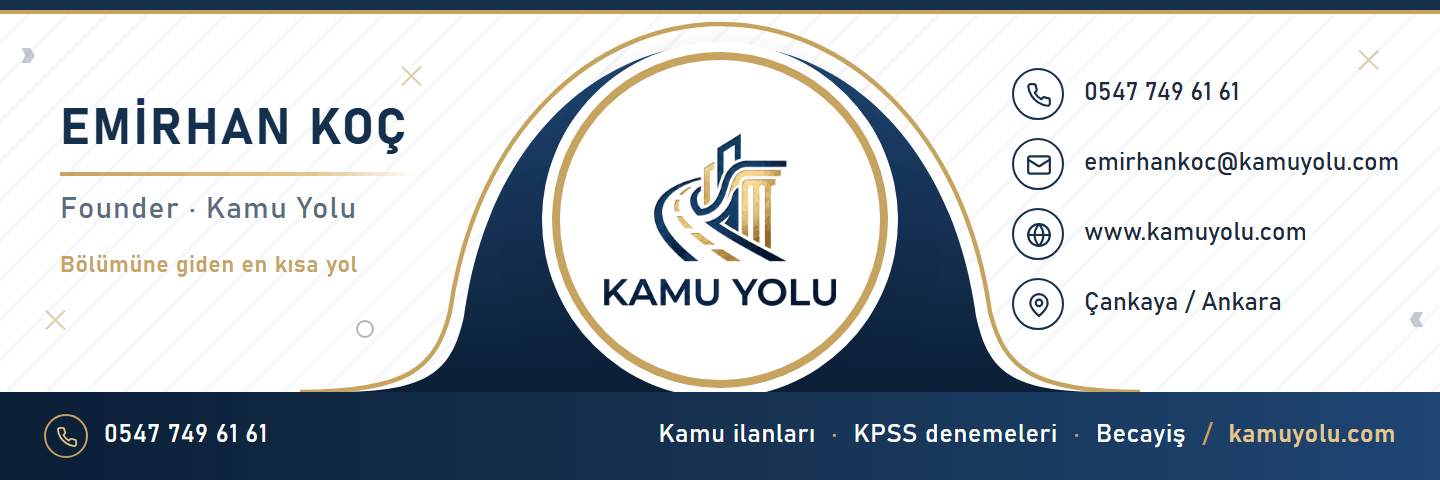
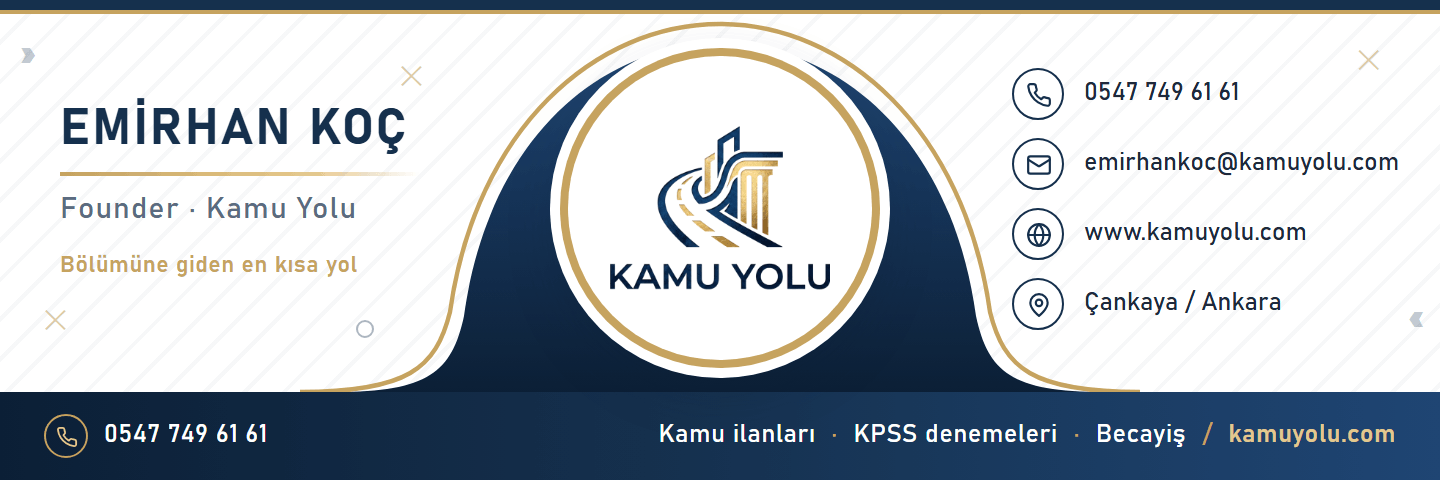
E-posta imzası: ortadaki daire alt banda taşmıyor
Daire 152 px ve öne alındı; Gmail önbelleği için görsel adresi ?v=2.

Changed region(s): [[0.375, 0.25, 0.625, 0.8438], [0.4062, 0.0938, 0.5938, 0.2188]]

diff --git a/docs/eposta-imzasi.html b/docs/eposta-imzasi.html
@@ -18,7 +18,7 @@
 <table cellpadding="0" cellspacing="0" border="0" style="border-collapse:collapse;font-family:Arial,Helvetica,sans-serif">
   <tr>
     <td style="padding:0">
-      <a href="https://www.kamuyolu.com" style="text-decoration:none"><img src="https://www.kamuyolu.com/brand/eposta-imza-1.png" width="600" height="200" alt="Emirhan Koç · Founder, Kamu Yolu · 0547 749 61 61 · emirhankoc@kamuyolu.com · kamuyolu.com" style="display:block;border:0;width:600px;height:200px"></a>
+      <a href="https://www.kamuyolu.com" style="text-decoration:none"><img src="https://www.kamuyolu.com/brand/eposta-imza-1.png?v=2" width="600" height="200" alt="Emirhan Koç · Founder, Kamu Yolu · 0547 749 61 61 · emirhankoc@kamuyolu.com · kamuyolu.com" style="display:block;border:0;width:600px;height:200px"></a>
     </td>
   </tr>
   <tr>

diff --git a/docs/eposta-imza/tasarim.html b/docs/eposta-imza/tasarim.html
@@ -65,7 +65,7 @@
     <path d="M168 196 C214 196 226 186 232 158 C244 70 300 22 360 22 C420 22 476 70 488 158 C494 186 506 196 552 196 Z" fill="url(#tg1)"/>
     <path d="M150 196 C204 196 218 184 225 156 C238 64 298 12 360 12 C422 12 482 64 495 156 C502 184 516 196 570 196" fill="none" stroke="#c6a35f" stroke-width="2.2"/>
   </svg>
-  <div class="daire" style="left:280px;top:30px;width:160px;height:160px"><img src="logo.png" alt=""></div>
+  <div class="daire" style="left:284px;top:28px;width:152px;height:152px;z-index:2"><img src="logo.png" alt=""></div>
 
   <div style="position:absolute;left:30px;top:52px;width:180px">
     <div class="isim">EMİRHAN KOÇ</div>
